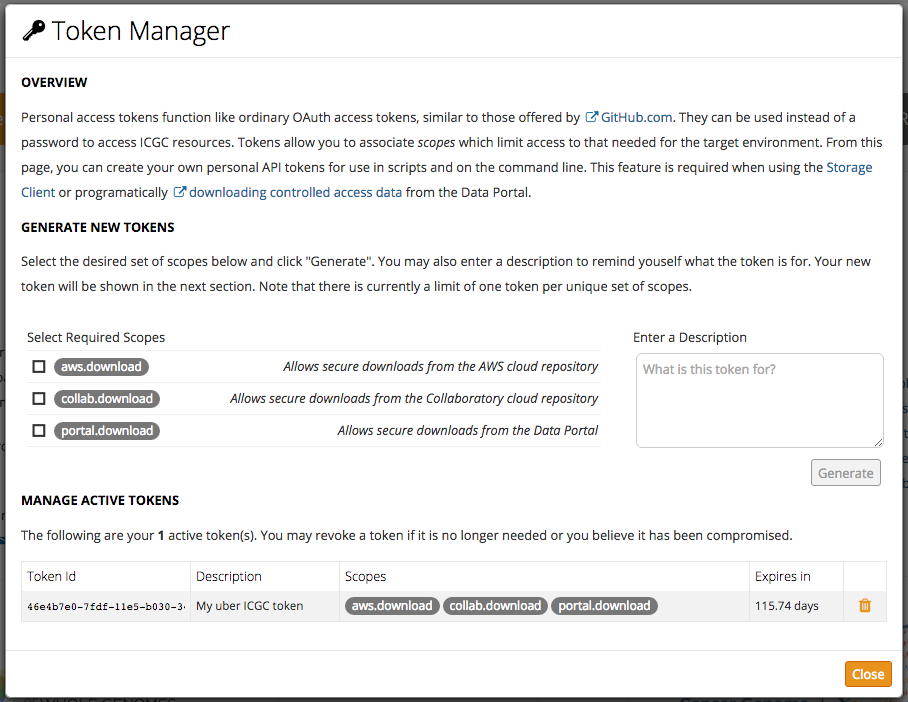
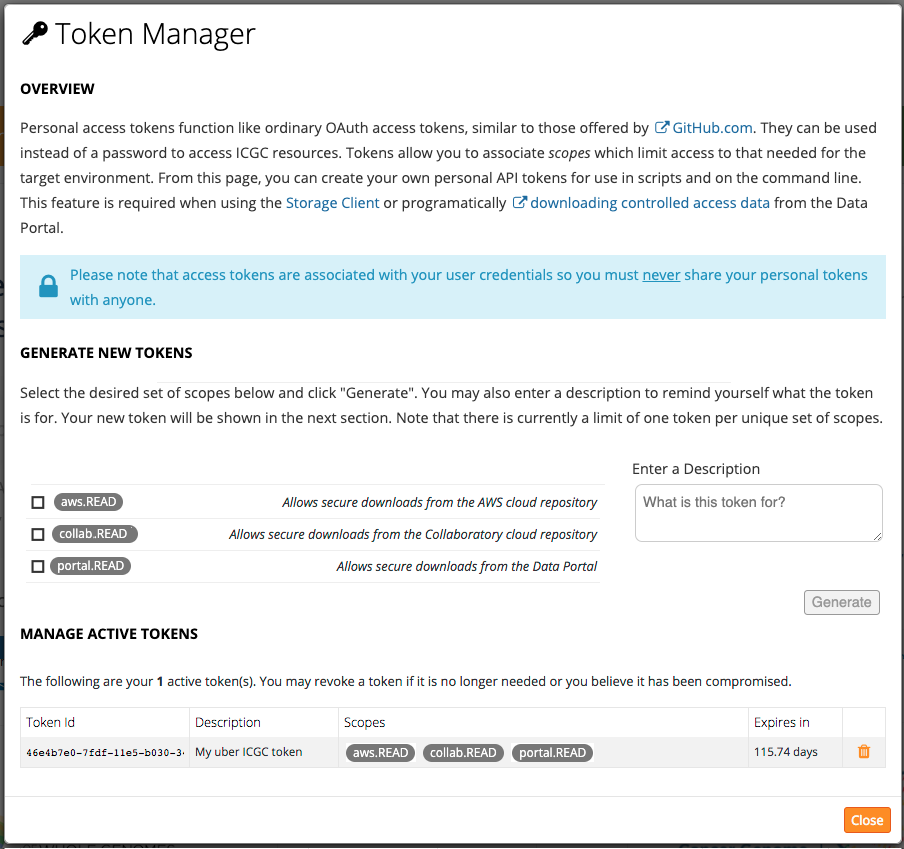
updated token manager and documentation to reflect new token names using 'read' instead of 'download'

Changed region(s): [[0.0, 0.0, 1.0, 1.0], [0.9292, 0.8376, 0.9602, 0.8974], [0.0, 0.8974, 0.031, 0.9274]]

diff --git a/docs/download/downloading-data.md b/docs/download/downloading-data.md
@@ -26,7 +26,7 @@ Repository information can be found [here](/download/repositories/#collaboratory
 3.  Click on `Token Manager`
     ![Token-Manager-Link](images/token-manager-link.png)
 
-4.  Select `collab.download` and click `Generate` button to create an access token for downloading data from Collaboratory
+4.  Select `collab.read` and click `Generate` button to create an access token for downloading data from Collaboratory
 
     ![Token-Manager](images/token-manager-collab.png)
 
@@ -222,9 +222,9 @@ Repository information can be found [here](/download/repositories/#aws)
 6. Click on Token Manager
     ![Token-Manager-Link](images/token-manager-link.png)
 
-7. Select `aws.download` and click "Generate" button to create an access token for downloading data from Collaboratory
+7. Select `aws.read` and click "Generate" button to create an access token for downloading data from Collaboratory
 
-    ![Token-Manager](images/aws-token-manager-screenshot.png)
+    ![Token-Manager](images/token-manager-aws.png)
 
 
 8\. Copy and paste this token into your config file for score-client *on the AWS VM*. Click [here](/download/guide/#access-configuration) for instructions on how to configure other elements of score-client. The configuration of the Score Client is stored in the `conf/application.properties` file of the distribution. Edit `application.properties` file to add the generated acesss token.
